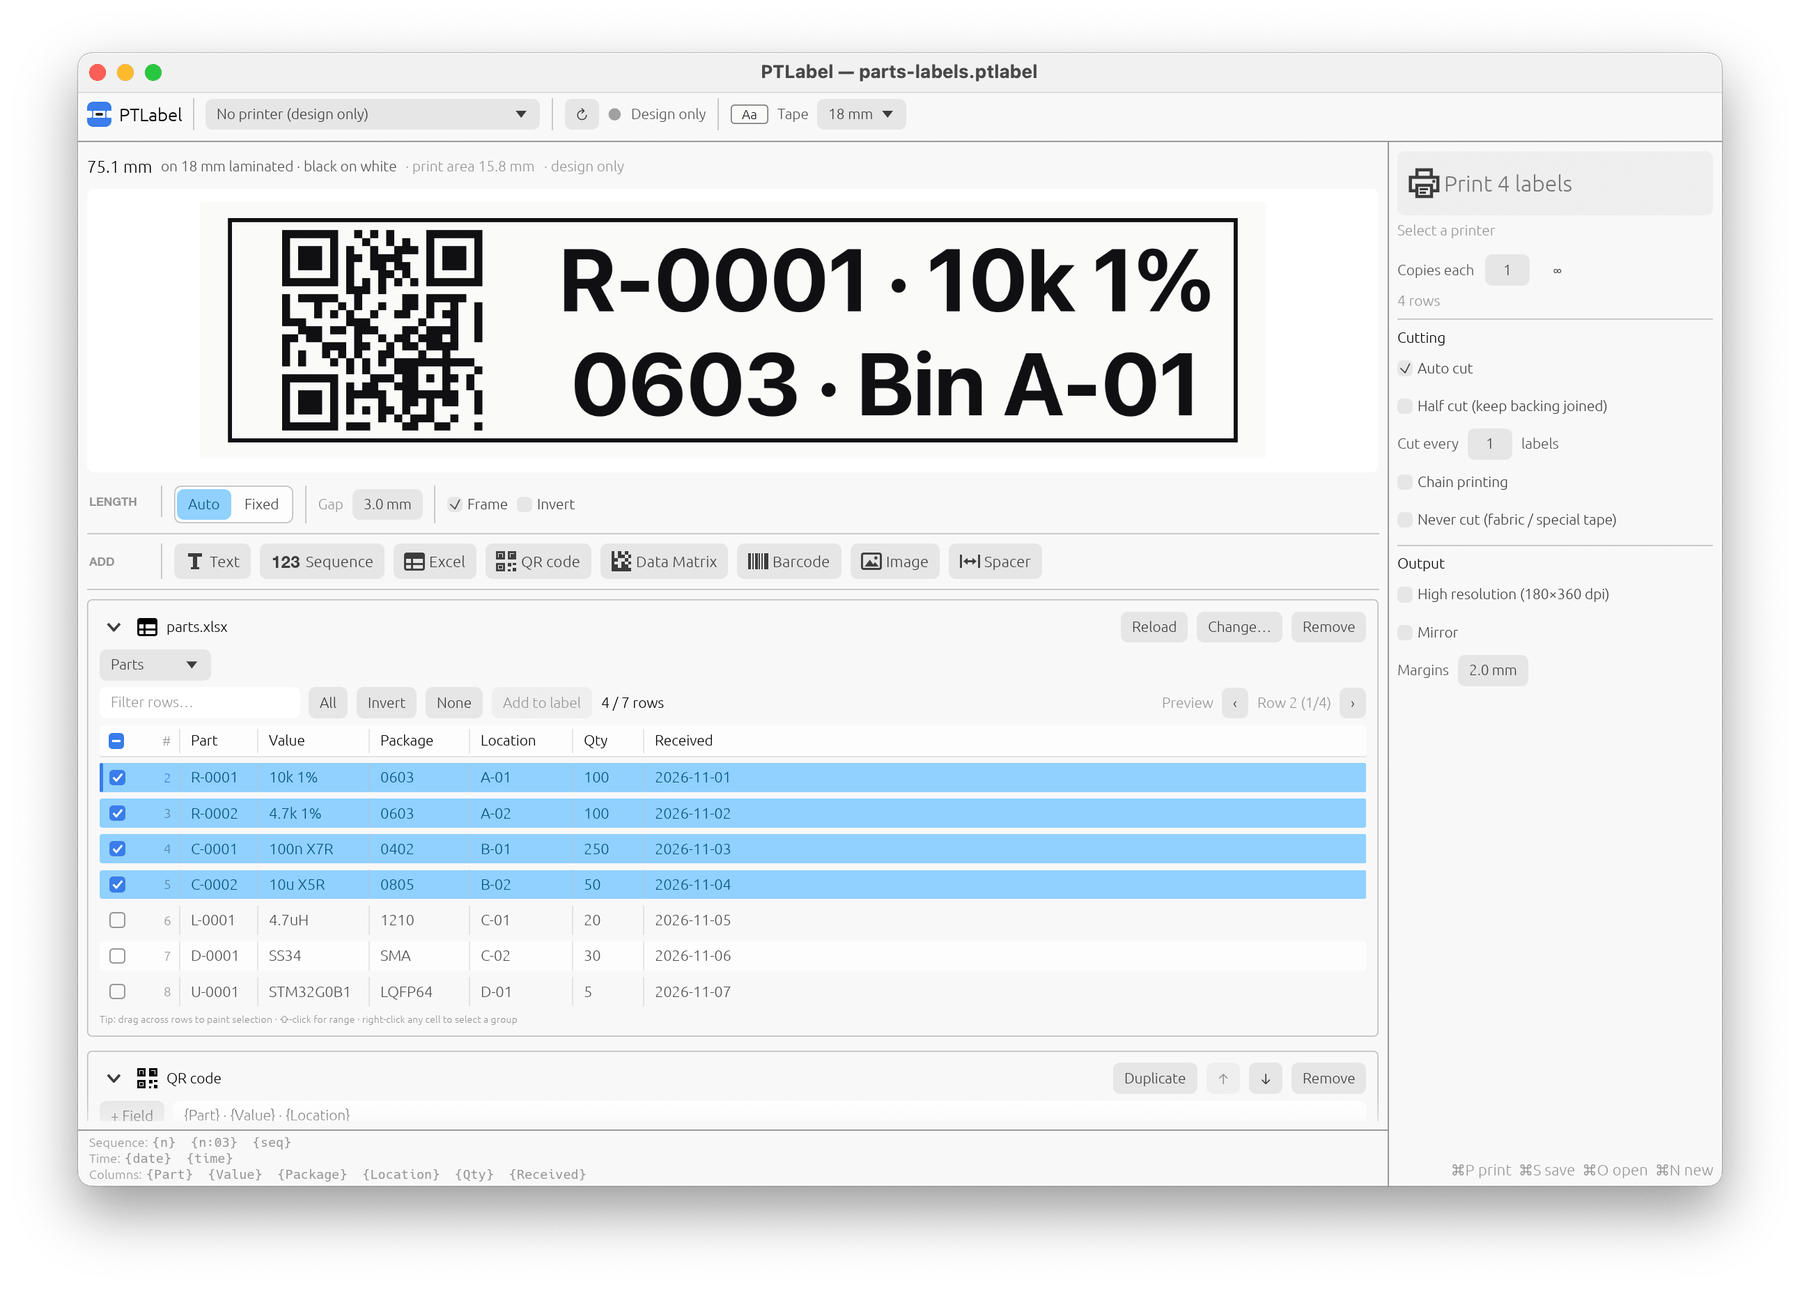
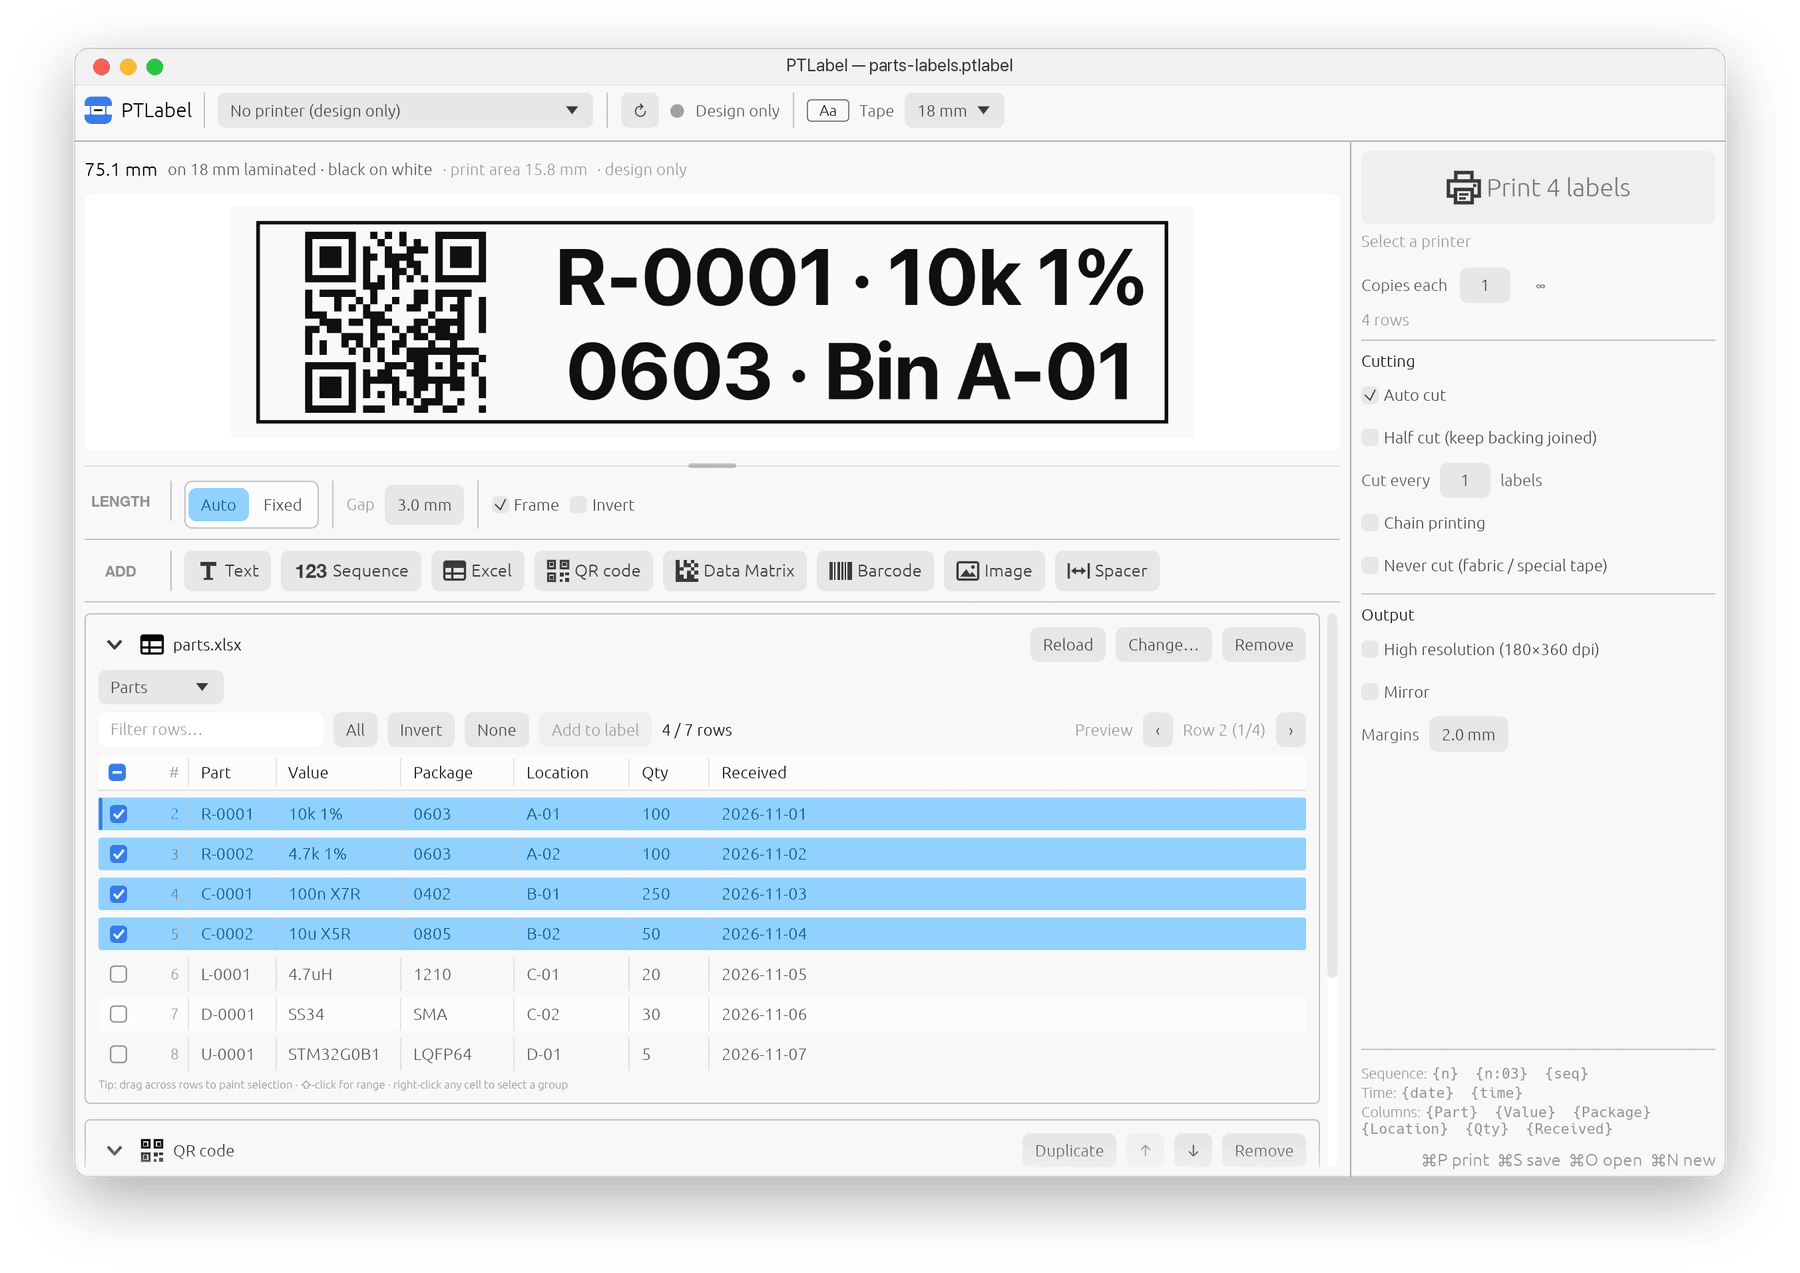
Automate README screenshot via tag-triggered GitHub Action and update screenshot

diff --git a/scripts/screenshot.py b/scripts/screenshot.py
@@ -1,0 +1,232 @@
+#!/usr/bin/env python3
+"""Capture assets/screenshot.png deterministically using PTLabel's built-in framebuffer screenshot.
+
+Works identically on local macOS and headless/CI macOS runners (no Screen Recording
+permission or AppleScript required). Wraps the rendered UI with a crisp macOS window
+titlebar, rounded corners, and soft drop shadow.
+"""
+
+from __future__ import annotations
+
+import json
+import os
+import shutil
+import subprocess
+import sys
+import tempfile
+from pathlib import Path
+
+from PIL import Image, ImageDraw, ImageFilter, ImageFont
+
+ROOT = Path(__file__).resolve().parent.parent
+OUT_PATH = ROOT / "assets" / "screenshot.png"
+TITLE = "PTLabel — parts-labels.ptlabel"
+TARGET_WIDTH = 1800
+
+
+def find_binary() -> Path:
+    if env_bin := os.environ.get("PTLABEL_BIN"):
+        return Path(env_bin)
+    for rel in ("target/release/ptlabel", "target/debug/ptlabel"):
+        p = ROOT / rel
+        if p.exists():
+            return p
+    raise SystemExit("ptlabel binary not found; build with `cargo build` or set PTLABEL_BIN")
+
+
+def load_title_font(size: int) -> ImageFont.FreeTypeFont | ImageFont.ImageFont:
+    candidates = [
+        "/System/Library/Fonts/SFNS.ttf",
+        "/System/Library/Fonts/HelveticaNeue.ttc",
+        "/System/Library/Fonts/Helvetica.ttc",
+        "/usr/share/fonts/truetype/dejavu/DejaVuSans-Bold.ttf",
+    ]
+    for path in candidates:
+        if os.path.exists(path):
+            try:
+                # HelveticaNeue.ttc index 1 is Bold; SFNS.ttf index 0
+                idx = 1 if path.endswith("HelveticaNeue.ttc") else 0
+                return ImageFont.truetype(path, size, index=idx)
+            except Exception:
+                try:
+                    return ImageFont.truetype(path, size)
+                except Exception:
+                    pass
+    return ImageFont.load_default()
+
+
+def add_macos_frame(inner: Image.Image, title: str) -> Image.Image:
+    inner = inner.convert("RGBA")
+    iw, ih = inner.size
+    # Infer HiDPI scale (2x on Retina, 1x on standard VM) from captured width (~1280 logical px).
+    s = 2 if iw >= 1800 else 1
+
+    title_h = 28 * s
+    radius = 10 * s
+    win_w = iw
+    win_h = ih + title_h
+
+    # Assemble window surface (titlebar + inner UI).
+    win = Image.new("RGBA", (win_w, win_h), (242, 242, 242, 255))
+    draw = ImageDraw.Draw(win)
+    # Subtle macOS light titlebar fill + bottom divider.
+    draw.rectangle([0, 0, win_w, title_h], fill=(242, 242, 242, 255))
+    draw.line([(0, title_h - 1), (win_w, title_h - 1)], fill=(214, 214, 214, 255), width=max(1, s))
+
+    # macOS traffic lights (red, yellow, green).
+    cy = title_h // 2
+    r = 6 * s
+    lights = [
+        (20 * s, (255, 95, 86, 255), (224, 68, 62, 255)),
+        (40 * s, (255, 189, 46, 255), (222, 161, 35, 255)),
+        (60 * s, (39, 201, 63, 255), (26, 171, 41, 255)),
+    ]
+    for cx, fill, stroke in lights:
+        draw.ellipse([cx - r, cy - r, cx + r, cy + r], fill=fill, outline=stroke, width=max(1, s // 2))
+
+    # Centered title text.
+    font = load_title_font(13 * s)
+    bbox = draw.textbbox((0, 0), title, font=font)
+    tw, th = bbox[2] - bbox[0], bbox[3] - bbox[1]
+    draw.text(((win_w - tw) // 2, (title_h - th) // 2 - bbox[1]), title, fill=(56, 56, 56, 255), font=font)
+
+    win.paste(inner, (0, title_h))
+
+    # Round all four window corners cleanly.
+    mask = Image.new("L", (win_w, win_h), 0)
+    ImageDraw.Draw(mask).rounded_rectangle([0, 0, win_w - 1, win_h - 1], radius=radius, fill=255)
+    rounded = Image.new("RGBA", (win_w, win_h), (0, 0, 0, 0))
+    rounded.paste(win, (0, 0), mask)
+
+    # Crisp 1px window outline.
+    outline = Image.new("RGBA", (win_w, win_h), (0, 0, 0, 0))
+    ImageDraw.Draw(outline).rounded_rectangle(
+        [0, 0, win_w - 1, win_h - 1],
+        radius=radius,
+        outline=(0, 0, 0, 38),
+        width=max(1, s),
+    )
+    rounded = Image.alpha_composite(rounded, outline)
+
+    # Soft macOS drop shadow canvas.
+    pad_x = 56 * s
+    pad_top = 36 * s
+    pad_bot = 72 * s
+    canvas = Image.new("RGBA", (win_w + 2 * pad_x, win_h + pad_top + pad_bot), (0, 0, 0, 0))
+
+    shadow = Image.new("RGBA", canvas.size, (0, 0, 0, 0))
+    sdraw = ImageDraw.Draw(shadow)
+    sdraw.rounded_rectangle(
+        [pad_x, pad_top + 16 * s, pad_x + win_w - 1, pad_top + 16 * s + win_h - 1],
+        radius=radius,
+        fill=(0, 0, 0, 82),
+    )
+    shadow = shadow.filter(ImageFilter.GaussianBlur(radius=22 * s))
+    canvas.alpha_composite(shadow)
+    canvas.alpha_composite(rounded, (pad_x, pad_top))
+    return canvas
+
+
+def main() -> None:
+    binary = find_binary()
+    xlsx = str((ROOT / "examples" / "parts.xlsx").resolve())
+    profile_name = "readme-shot"
+
+    if sys.platform == "darwin":
+        app_support = Path.home() / "Library" / "Application Support" / f"PTLabel-{profile_name}"
+    else:
+        xdg = os.environ.get("XDG_DATA_HOME", str(Path.home() / ".local" / "share"))
+        app_support = Path(xdg) / f"PTLabel-{profile_name}"
+
+    with tempfile.TemporaryDirectory(prefix="ptlabel_shot_") as tmpdir:
+        tmp = Path(tmpdir)
+        doc_path = tmp / "parts-labels.ptlabel"
+        raw_shot = tmp / "inner.png"
+
+        # Save matching .ptlabel JSON so window title has no "— Edited".
+        label_json = {
+            "blocks": [
+                {"Qr": {"data": "{Part} · {Value} · {Location}", "ec": "M"}},
+                {
+                    "Text": {
+                        "text": "{Part} · {Value}\n{Package} · Bin {Location}",
+                        "font": "",
+                        "size_pt": None,
+                        "bold": True,
+                        "italic": False,
+                        "underline": False,
+                        "align": "Center",
+                        "line_spacing": 1.0,
+                        "rotation": "R0",
+                    }
+                },
+            ],
+            "gap_mm": 3.0,
+            "frame": True,
+            "invert": False,
+            "fixed_length": False,
+            "length_mm": 50.0,
+            "align": "Center",
+            "data": {
+                "path": xlsx,
+                "sheet": "Parts",
+                "header": True,
+                "header_row": None,
+                "fill_merged": True,
+                "by_columns": False,
+            },
+        }
+        doc_path.write_text(json.dumps(label_json, ensure_ascii=False, indent=2), encoding="utf-8")
+
+        def ron_str(s: str) -> str:
+            return s.replace("\\", "\\\\").replace('"', '\\"')
+
+        ron_inner = (
+            "(label:(blocks:["
+            'Qr((data:"{Part} · {Value} · {Location}",ec:M)),'
+            'Text((text:"{Part} · {Value}\\n{Package} · Bin {Location}",font:"",size_pt:None,bold:true,italic:false,underline:false,align:Center,line_spacing:1.0,rotation:R0))'
+            "],gap_mm:3.0,frame:true,invert:false,fixed_length:false,length_mm:50.0,align:Center,"
+            f'data:Some((path:"{ron_str(xlsx)}",sheet:"Parts",header:true,header_row:None,fill_merged:true,by_columns:false))),'
+            "settings:(copies:1,infinite:false,opts:(auto_cut:true,half_cut:false,chain:false,cut_every:1,mirror:false,high_res:false,special_tape:false,margin_mm:2.0),num_start:1,num_step:1),"
+            f'printer:None,auto_connect:false,hosts:[],offline_tape:18,doc_path:Some("{ron_str(str(doc_path))}"),recent:[],sel_rows:[0,1,2,3],preview_height:205.0)'
+        )
+        ron_outer = f'{{\n    "ptlabel": "{ron_str(ron_inner)}",\n}}\n'
+
+        if app_support.exists():
+            shutil.rmtree(app_support)
+        app_support.mkdir(parents=True, exist_ok=True)
+        (app_support / "app.ron").write_text(ron_outer, encoding="utf-8")
+
+        env = os.environ.copy()
+        env["PTLABEL_PROFILE"] = profile_name
+        env["PTLABEL_SCREENSHOT"] = str(raw_shot)
+        env["PTLABEL_WINDOW_SIZE"] = "1240x820"
+        env["PTLABEL_ZOOM"] = "0.94"
+
+        try:
+            subprocess.run([str(binary)], env=env, check=True, timeout=45)
+        finally:
+            shutil.rmtree(app_support, ignore_errors=True)
+
+        if not raw_shot.exists():
+            raise SystemExit(f"Screenshot was not written to {raw_shot}")
+
+        framed = add_macos_frame(Image.open(raw_shot), TITLE)
+        if framed.width > TARGET_WIDTH:
+            new_h = round(framed.height * TARGET_WIDTH / framed.width)
+            framed = framed.resize((TARGET_WIDTH, new_h), Image.Resampling.LANCZOS)
+
+        OUT_PATH.parent.mkdir(parents=True, exist_ok=True)
+        framed.save(OUT_PATH, format="PNG", optimize=True)
+
+        if shutil.which("pngquant"):
+            subprocess.run(
+                ["pngquant", "--force", "--quality=80-95", "--output", str(OUT_PATH), str(OUT_PATH)],
+                check=False,
+            )
+
+        print(f"Saved {OUT_PATH} ({framed.width}x{framed.height}, {OUT_PATH.stat().st_size} bytes)")
+
+
+if __name__ == "__main__":
+    main()

diff --git a/src/app.rs b/src/app.rs
@@ -48,12 +48,24 @@ fn app_name() -> String {
 
 pub fn run() -> anyhow::Result<()> {
     let name = app_name();
+    let shot_mode = std::env::var_os("PTLABEL_SCREENSHOT").is_some();
+    let inner_size = std::env::var("PTLABEL_WINDOW_SIZE")
+        .ok()
+        .and_then(|s| {
+            let (w, h) = s.split_once('x')?;
+            Some([w.parse::<f32>().ok()?, h.parse::<f32>().ok()?])
+        })
+        .unwrap_or([1240.0, 800.0]);
+    let mut vb = egui::ViewportBuilder::default()
+        .with_title(&name)
+        .with_inner_size(inner_size)
+        .with_min_inner_size([960.0, 600.0])
+        .with_icon(window_icon());
+    if shot_mode {
+        vb = vb.with_decorations(false);
+    }
     let options = eframe::NativeOptions {
-        viewport: egui::ViewportBuilder::default()
-            .with_title(&name)
-            .with_inner_size([1240.0, 800.0])
-            .with_min_inner_size([960.0, 600.0])
-            .with_icon(window_icon()),
+        viewport: vb,
         // Metal (wgpu) instead of OpenGL: no extra AppKit backing surfaces. Frame latency 1 =
         // two drawables instead of three, ~15 MB less at Retina size (egui still uses 2 while resizing).
         wgpu_options: eframe::egui_wgpu::WgpuConfiguration {
@@ -274,6 +286,10 @@ pub struct App {
     upd: (crossbeam_channel::Sender<Upd>, crossbeam_channel::Receiver<Upd>),
     /// Live UI config (`dev-ui.json` watcher + Dev Inspector in `--features dev` builds).
     dev: DevUi,
+    /// Optional automated screenshot capture path (`PTLABEL_SCREENSHOT` env var, used by CI/scripts).
+    screenshot_path: Option<String>,
+    screenshot_frames: u8,
+    screenshot_taken: bool,
 }
 
 #[derive(Clone, Copy, Debug, PartialEq, Eq)]
@@ -405,6 +421,9 @@ impl App {
             checked: None,
             upd: crossbeam_channel::unbounded(),
             dev: DevUi::new(),
+            screenshot_path: std::env::var("PTLABEL_SCREENSHOT").ok().filter(|s| !s.is_empty()),
+            screenshot_frames: 0,
+            screenshot_taken: false,
         };
         let (dialog_tx, dialog_rx) = crossbeam_channel::unbounded();
         app.dialog_tx = dialog_tx;
@@ -707,16 +726,15 @@ impl App {
                     });
             }
 
-            ui.add_space(14.0);
             if self.updating {
+                ui.add_space(14.0);
                 ui.horizontal(|ui| {
                     ui.spinner();
                     ui.label(RichText::new("Downloading and installing…").size(14.0).weak());
                 });
             } else if printing {
+                ui.add_space(14.0);
                 ui.label(RichText::new("Printing: update once the queue is done.").size(13.5).color(Color32::from_rgb(230, 150, 20)));
-            } else {
-                ui.label(RichText::new("PTLabel will download the update, replace the app, and reopen automatically.").size(13.5).weak());
             }
             if let Some(e) = &self.update_error {
                 ui.add_space(8.0);
@@ -3572,6 +3590,37 @@ impl eframe::App for App {
         }
         self.dev.window(&ctx);
         self.update_title(&ctx);
+
+        if self.screenshot_path.is_some() {
+            ctx.set_theme(egui::Theme::Light);
+            if let Ok(z) = std::env::var("PTLABEL_ZOOM").and_then(|s| s.parse::<f32>().map_err(|_| std::env::VarError::NotPresent)) {
+                ctx.set_zoom_factor(z.clamp(0.5, 2.0));
+            }
+            if !self.screenshot_taken {
+                ctx.request_repaint();
+                if self.preview.is_some() && self.preview_job.is_none() {
+                    self.screenshot_frames = self.screenshot_frames.saturating_add(1);
+                    if self.screenshot_frames >= 6 {
+                        self.screenshot_taken = true;
+                        let path = self.screenshot_path.clone().unwrap();
+                        let c = ctx.clone();
+                        ctx.request_screenshot(move |img| {
+                            let [w, h] = img.size;
+                            if let Err(e) = image::save_buffer(
+                                &path,
+                                img.as_raw(),
+                                w as u32,
+                                h as u32,
+                                image::ColorType::Rgba8,
+                            ) {
+                                eprintln!("ptlabel: screenshot save failed: {e}");
+                            }
+                            c.send_viewport_cmd(egui::ViewportCommand::Close);
+                        });
+                    }
+                }
+            }
+        }
     }
 
     fn raw_input_hook(&mut self, _ctx: &egui::Context, raw_input: &mut egui::RawInput) {
